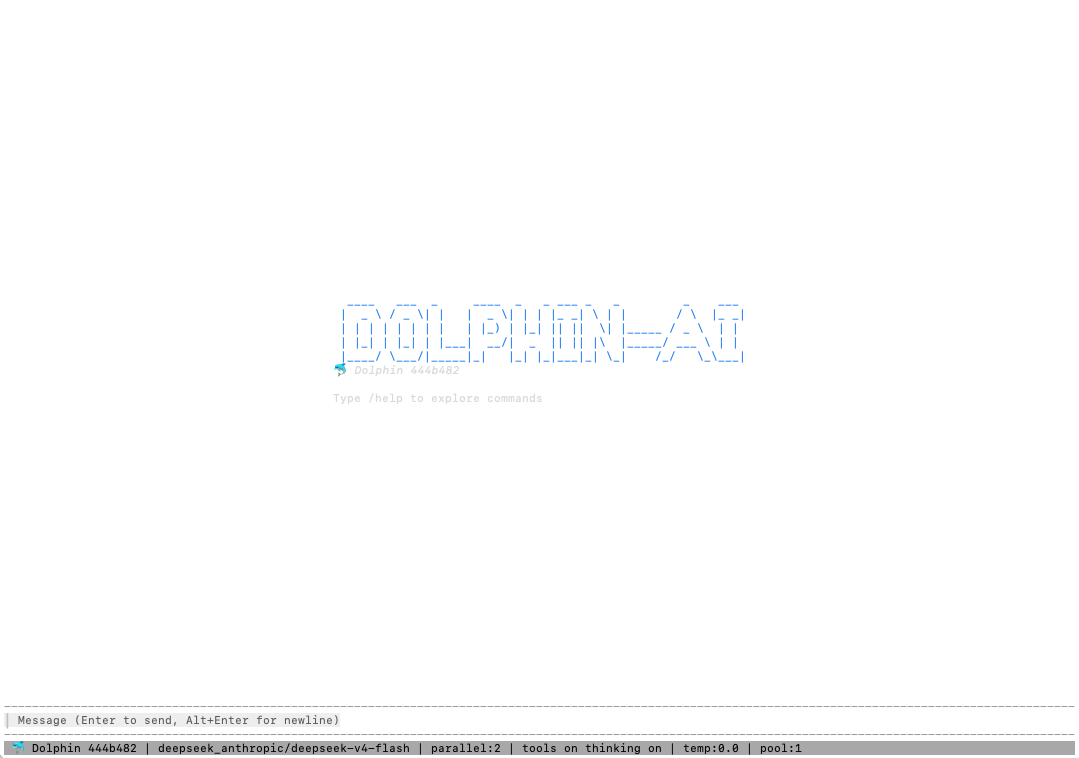
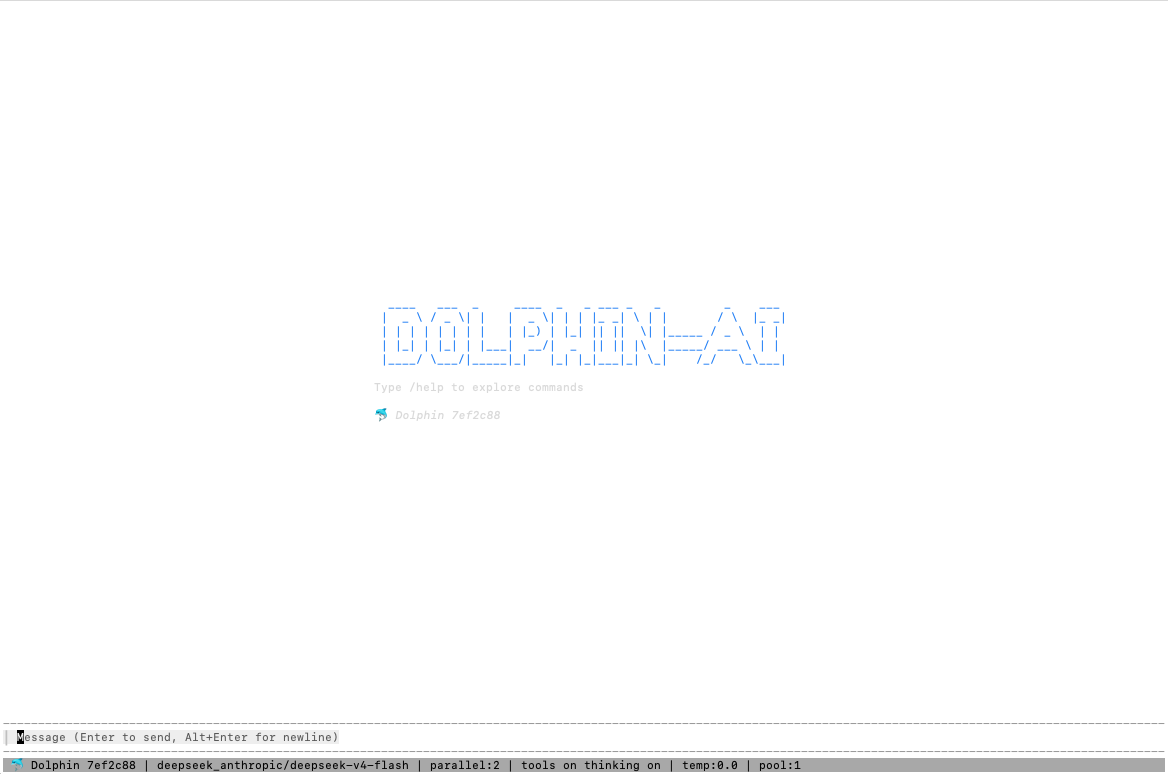
refactor(tui): center welcome content, cap queue at 2 lines

Changed region(s): [[0.0, 0.9406, 1.0, 1.0], [0.3058, 0.3945, 0.6728, 0.5462], [0.4588, 0.5158, 0.4893, 0.5462]]

diff --git a/internal/transport/tui/welcome.go b/internal/transport/tui/welcome.go
@@ -5,8 +5,6 @@ import (
 	"strings"
 
 	"github.com/charmbracelet/lipgloss"
-
-	"dolphin/internal/i18n"
 )
 
 // showingWelcome reports whether the empty-state welcome banner should
@@ -30,72 +28,70 @@ func (m model) showingWelcome() bool {
 // before the first turn begins. It is a pure overlay — it never enters the
 // message buffer, so it does not pollute incremental rendering, is never
 // trimmed, and disappears the moment real content arrives or a turn starts.
+// The banner shows a figlet ASCII art logo and a brief "type /help" hint.
+// The content is both vertically and horizontally centered in the viewport.
 func (m model) renderWelcome() string {
-	width := m.viewportWidth()
-	if width < 20 {
-		width = 20
-	}
+	vpWidth := m.viewportWidth()
 
-	// Title: agent name + version, styled to stand out at the top.
-	title := fmt.Sprintf("🐬 %s %s", m.agentName, m.version)
-	titleStyle := lipgloss.NewStyle().
-		Foreground(lipgloss.AdaptiveColor{Light: "26", Dark: "75"}).
-		Bold(true)
-	taglineStyle := lipgloss.NewStyle().
+	// ASCII art banner generated via figlet standard font "DOLPHIN-AI".
+	dolphinArt := `  ____   ___  _     ____  _   _ ___ _   _         _    ___
+ |  _ \ / _ \| |   |  _ \| | | |_ _| \ | |       / \  |_ _|
+ | | | | | | | |   | |_) | |_| || ||  \| |_____ / _ \  | |
+ | |_| | |_| | |___|  __/|  _  || || |\  |_____/ ___ \ | |
+ |____/ \___/|_____|_|   |_| |_|___|_| \_|    /_/   \_\___|`
+	artStyle := lipgloss.NewStyle().
+		Foreground(lipgloss.AdaptiveColor{Light: "26", Dark: "75"})
+
+	// Version line: shown at the bottom in a subdued style.
+	versionLine := fmt.Sprintf("🐬 %s %s", m.agentName, m.version)
+	faintStyle := lipgloss.NewStyle().
 		Foreground(adaptiveFaint).
 		Italic(true)
-	sectionStyle := lipgloss.NewStyle().
-		Foreground(lipgloss.AdaptiveColor{Light: "136", Dark: "220"}).
-		Bold(true)
-	keyStyle := lipgloss.NewStyle().
-		Foreground(lipgloss.AdaptiveColor{Light: "241", Dark: "247"})
-	descStyle := lipgloss.NewStyle().
-		Foreground(lipgloss.AdaptiveColor{Light: "16", Dark: "252"})
 
-	// Key column width: the longest keybinding. Keeps descriptions aligned.
-	// "Ctrl+↑↓" uses a double-width arrow, so pad generously.
-	const keyCol = 14
+	// Tips line: brief hint pointing to /help.
+	tipLine := lipgloss.NewStyle().
+		Foreground(adaptiveFaint).
+		Render("Type /help to explore commands")
 
-	hintRow := func(key, desc string) string {
-		return keyStyle.Width(keyCol).Render(key) + "  " + descStyle.Render(desc)
-	}
-
-	sectionHeader := func(title string) string {
-		// Underline the header with faint dashes to fill the column.
-		dashes := width - len(title) - 2
-		if dashes < 2 {
-			dashes = 2
+	// Find the widest line in the ASCII art for horizontal centering.
+	artLines := strings.Split(dolphinArt, "\n")
+	artWidth := 0
+	for _, l := range artLines {
+		if w := lipgloss.Width(l); w > artWidth {
+			artWidth = w
 		}
-		return sectionStyle.Render(title) + " " + lipgloss.NewStyle().
-			Foreground(adaptiveFaint).
-			Render(strings.Repeat("─", dashes))
 	}
 
 	var lines []string
-	lines = append(lines, titleStyle.Render(title))
-	lines = append(lines, taglineStyle.Render(i18n.T("tui.welcome_tagline")))
+	for _, l := range artLines {
+		lines = append(lines, artStyle.Render(l))
+	}
 	lines = append(lines, "")
-
-	lines = append(lines, sectionHeader(i18n.T("tui.welcome_section_input")))
-	lines = append(lines, hintRow("Enter", i18n.T("tui.welcome_send")))
-	lines = append(lines, hintRow("Alt+Enter", i18n.T("tui.welcome_newline")))
-	lines = append(lines, hintRow("Ctrl+P", i18n.T("tui.welcome_priority")))
-	lines = append(lines, hintRow("Ctrl+G", i18n.T("tui.welcome_jump")))
-	lines = append(lines, hintRow("↑ / ↓", i18n.T("tui.welcome_scroll")))
-	lines = append(lines, hintRow("Ctrl+↑↓", i18n.T("tui.welcome_history")))
-	lines = append(lines, hintRow("Tab", i18n.T("tui.welcome_complete")))
-	lines = append(lines, hintRow("ESC", i18n.T("tui.welcome_pause")))
+	lines = append(lines, tipLine)
 	lines = append(lines, "")
-
-	lines = append(lines, sectionHeader(i18n.T("tui.welcome_section_commands")))
-	lines = append(lines, hintRow("/tools", i18n.T("tui.welcome_tools")))
-	lines = append(lines, hintRow("/thinking", i18n.T("tui.welcome_thinking")))
-	lines = append(lines, hintRow("/windows", i18n.T("tui.welcome_sidepanel")))
-	lines = append(lines, hintRow("/help", i18n.T("tui.welcome_help")))
-	lines = append(lines, hintRow("/exit", i18n.T("tui.welcome_exit")))
+	lines = append(lines, faintStyle.Render(versionLine))
 
 	body := strings.Join(lines, "\n")
-	// Indent the whole banner so it reads as a panel rather than hugging the
-	// left edge of the viewport.
-	return lipgloss.NewStyle().PaddingLeft(1).Render(body)
+
+	// Horizontal centering: pad every line so the block sits in the middle.
+	if vpWidth > artWidth {
+		leftPad := (vpWidth - artWidth) / 2
+		padStr := strings.Repeat(" ", leftPad)
+		padded := make([]string, len(lines))
+		for i, l := range lines {
+			padded[i] = padStr + l
+		}
+		body = strings.Join(padded, "\n")
+	}
+
+	// Fill the viewport height so the input area stays at the bottom.
+	// Pad both top and bottom to vertically center the content.
+	contentHeight := strings.Count(body, "\n") + 1
+	if pad := m.viewport.Height - contentHeight; pad > 0 {
+		top := pad / 2
+		bottom := pad - top
+		body = strings.Repeat("\n", top) + body + strings.Repeat("\n", bottom)
+	}
+
+	return body
 }

diff --git a/internal/transport/tui/model.go b/internal/transport/tui/model.go
@@ -798,6 +798,10 @@ func queueCounts(aio *agentio.AgentIO) (active, pending int) {
 	return len(a), len(p)
 }
 
+// queueMaxBodyLines caps the total queue body lines (excluding the header).
+// The queue area is kept compact so the input area stays prominent.
+const queueMaxBodyLines = 2
+
 // Per-category display caps for the queue area. Each category shows its
 // most relevant slice and a "+N more" indicator when truncated, instead of
 // silently dropping items.
@@ -831,7 +835,7 @@ func queueBodyLines(active, pending, completed int) int {
 	if completed > cShown {
 		n++ // "+N done"
 	}
-	return n
+	return min(n, queueMaxBodyLines)
 }
 
 func renderQueue(aio *agentio.AgentIO, completed []completedItem, width int) string {
@@ -925,6 +929,25 @@ func renderQueue(aio *agentio.AgentIO, completed []completedItem, width int) str
 	}
 	if len(completed) > len(cShown) {
 		lines = append(lines, moreLine(fmt.Sprintf(i18n.T("tui.queue_more_done"), len(completed)-len(cShown))))
+	}
+	// Cap the total body lines (everything after the header) to keep the
+	// queue compact so the input area stays prominent.
+	if len(lines) > queueMaxBodyLines+1 {
+		lines = lines[:queueMaxBodyLines+1]
+		// Replace the last shown line with a compact "+N more" indicator.
+		remaining := 0
+		if activeRemaining := len(activeIDs) - min(len(activeIDs), queueMaxActive); activeRemaining > 0 {
+			remaining += activeRemaining
+		}
+		if pendingRemaining := len(pending) - min(len(pending), queueMaxPending); pendingRemaining > 0 {
+			remaining += pendingRemaining
+		}
+		if completedRemaining := len(completed) - min(len(completed), queueMaxCompleted); completedRemaining > 0 {
+			remaining += completedRemaining
+		}
+		if remaining > 0 {
+			lines[queueMaxBodyLines] = moreLine(fmt.Sprintf(i18n.T("tui.queue_more_queued"), remaining))
+		}
 	}
 	return strings.Join(lines, "\n")
 }

diff --git a/internal/transport/tui/tui_test.go b/internal/transport/tui/tui_test.go
@@ -1188,15 +1188,15 @@ func TestQueueBodyLines(t *testing.T) {
 	})
 
 	t.Run("pending overflow adds indicator", func(t *testing.T) {
-		// 3 shown + 1 "+N queued" indicator.
-		if n := queueBodyLines(0, 5, 0); n != 4 {
-			t.Errorf("expected 4 (3 shown + 1 indicator), got %d", n)
+		// 3 shown + 1 "+N queued" indicator → capped to queueMaxBodyLines.
+		if n := queueBodyLines(0, 5, 0); n != 2 {
+			t.Errorf("expected 2 (capped by queueMaxBodyLines), got %d", n)
 		}
 	})
 
 	t.Run("completed overflow adds indicator", func(t *testing.T) {
-		if n := queueBodyLines(0, 0, 10); n != 4 {
-			t.Errorf("expected 4 (3 shown + 1 indicator), got %d", n)
+		if n := queueBodyLines(0, 0, 10); n != 2 {
+			t.Errorf("expected 2 (capped by queueMaxBodyLines), got %d", n)
 		}
 	})
 

diff --git a/CHANGELOG.md b/CHANGELOG.md
@@ -4,6 +4,7 @@ All notable changes to Dolphin will be documented in this file.
 
 ## [Unreleased]
 
+- **TUI welcome 居中 + queue 上限 2 行**: Welcome 页面垂直/水平居中，版本号移至底部；队列内容最多显示 2 行 body 以保持输入框区域突出。
 - **README.md 增加 welcome.png 展示**: 在项目标语下方插入了 TUI 欢迎界面截图展示。
 
 - **Ignore .mcp.json**: untracked chick `.mcp.json` files, added to `.gitignore`.